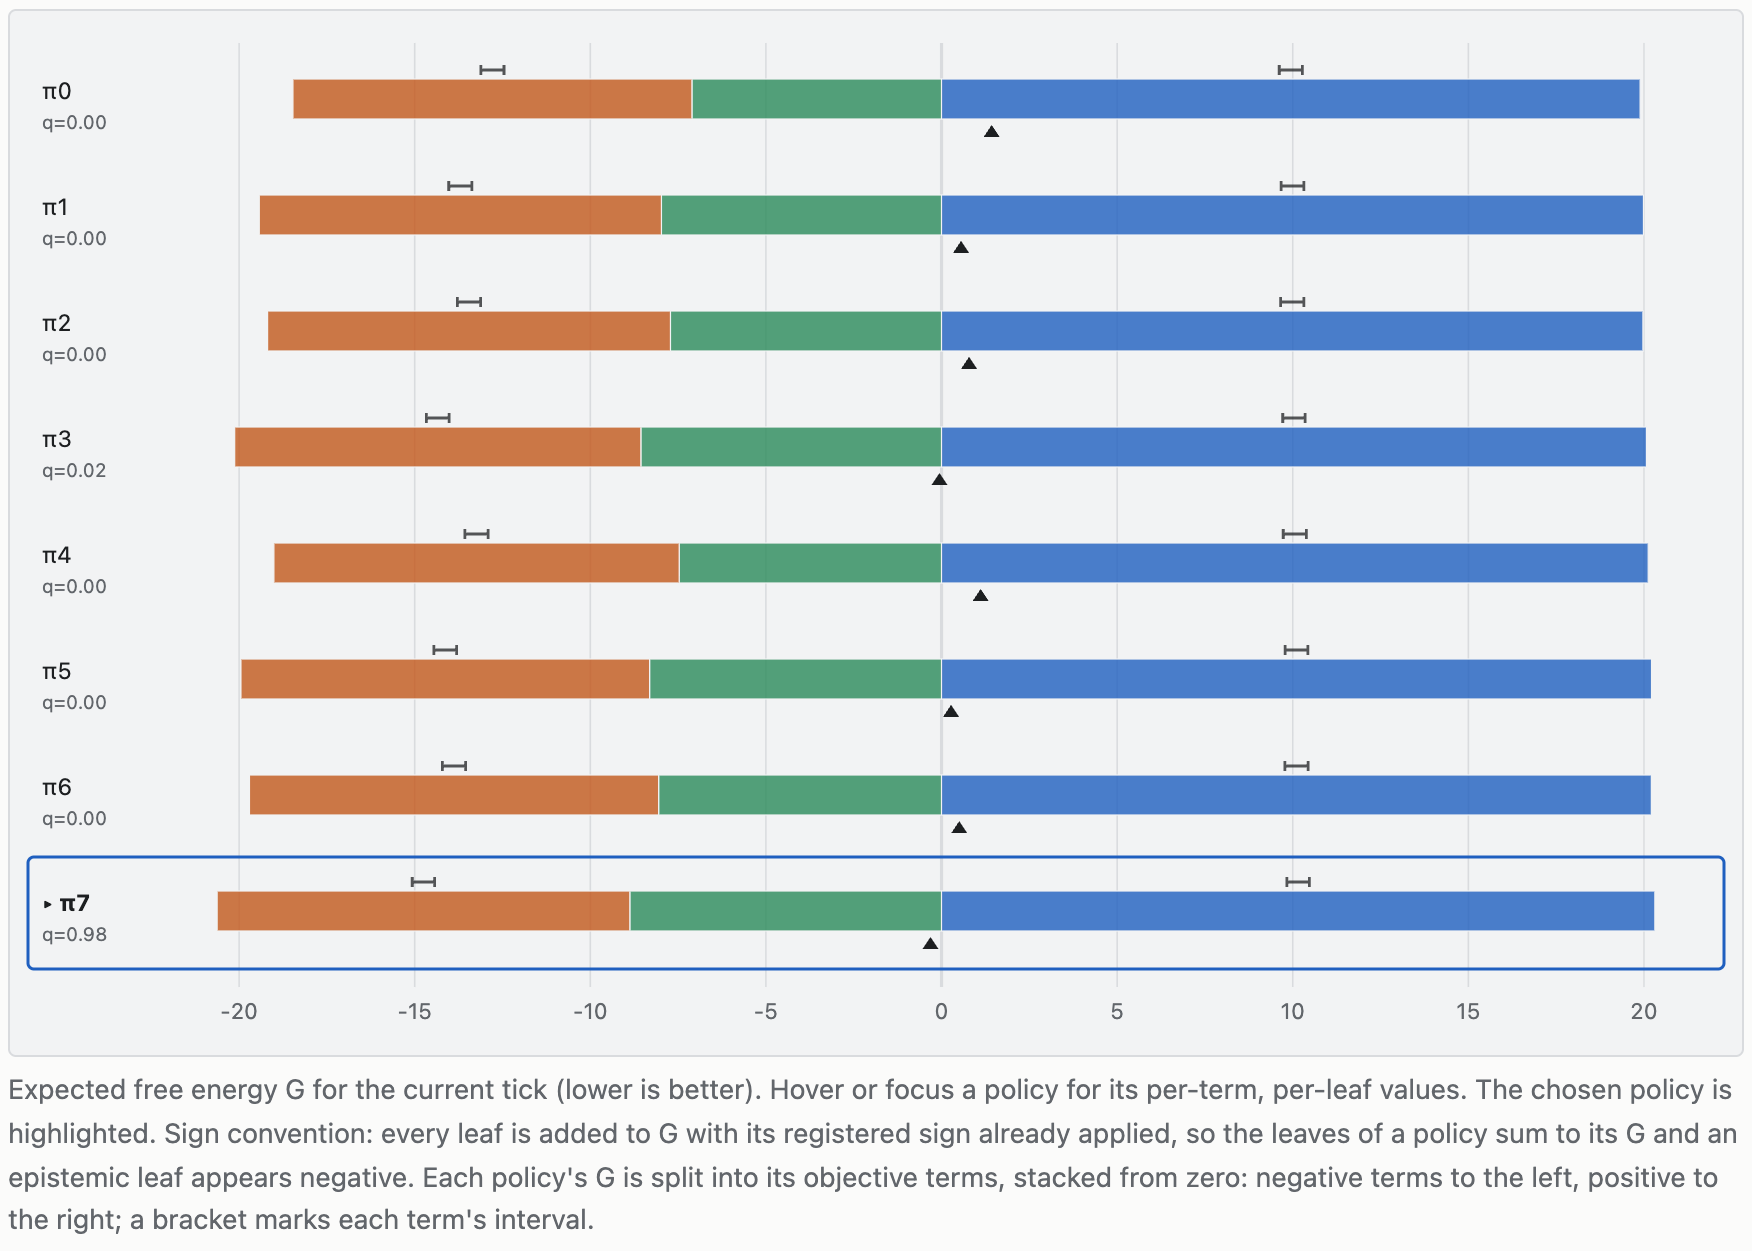
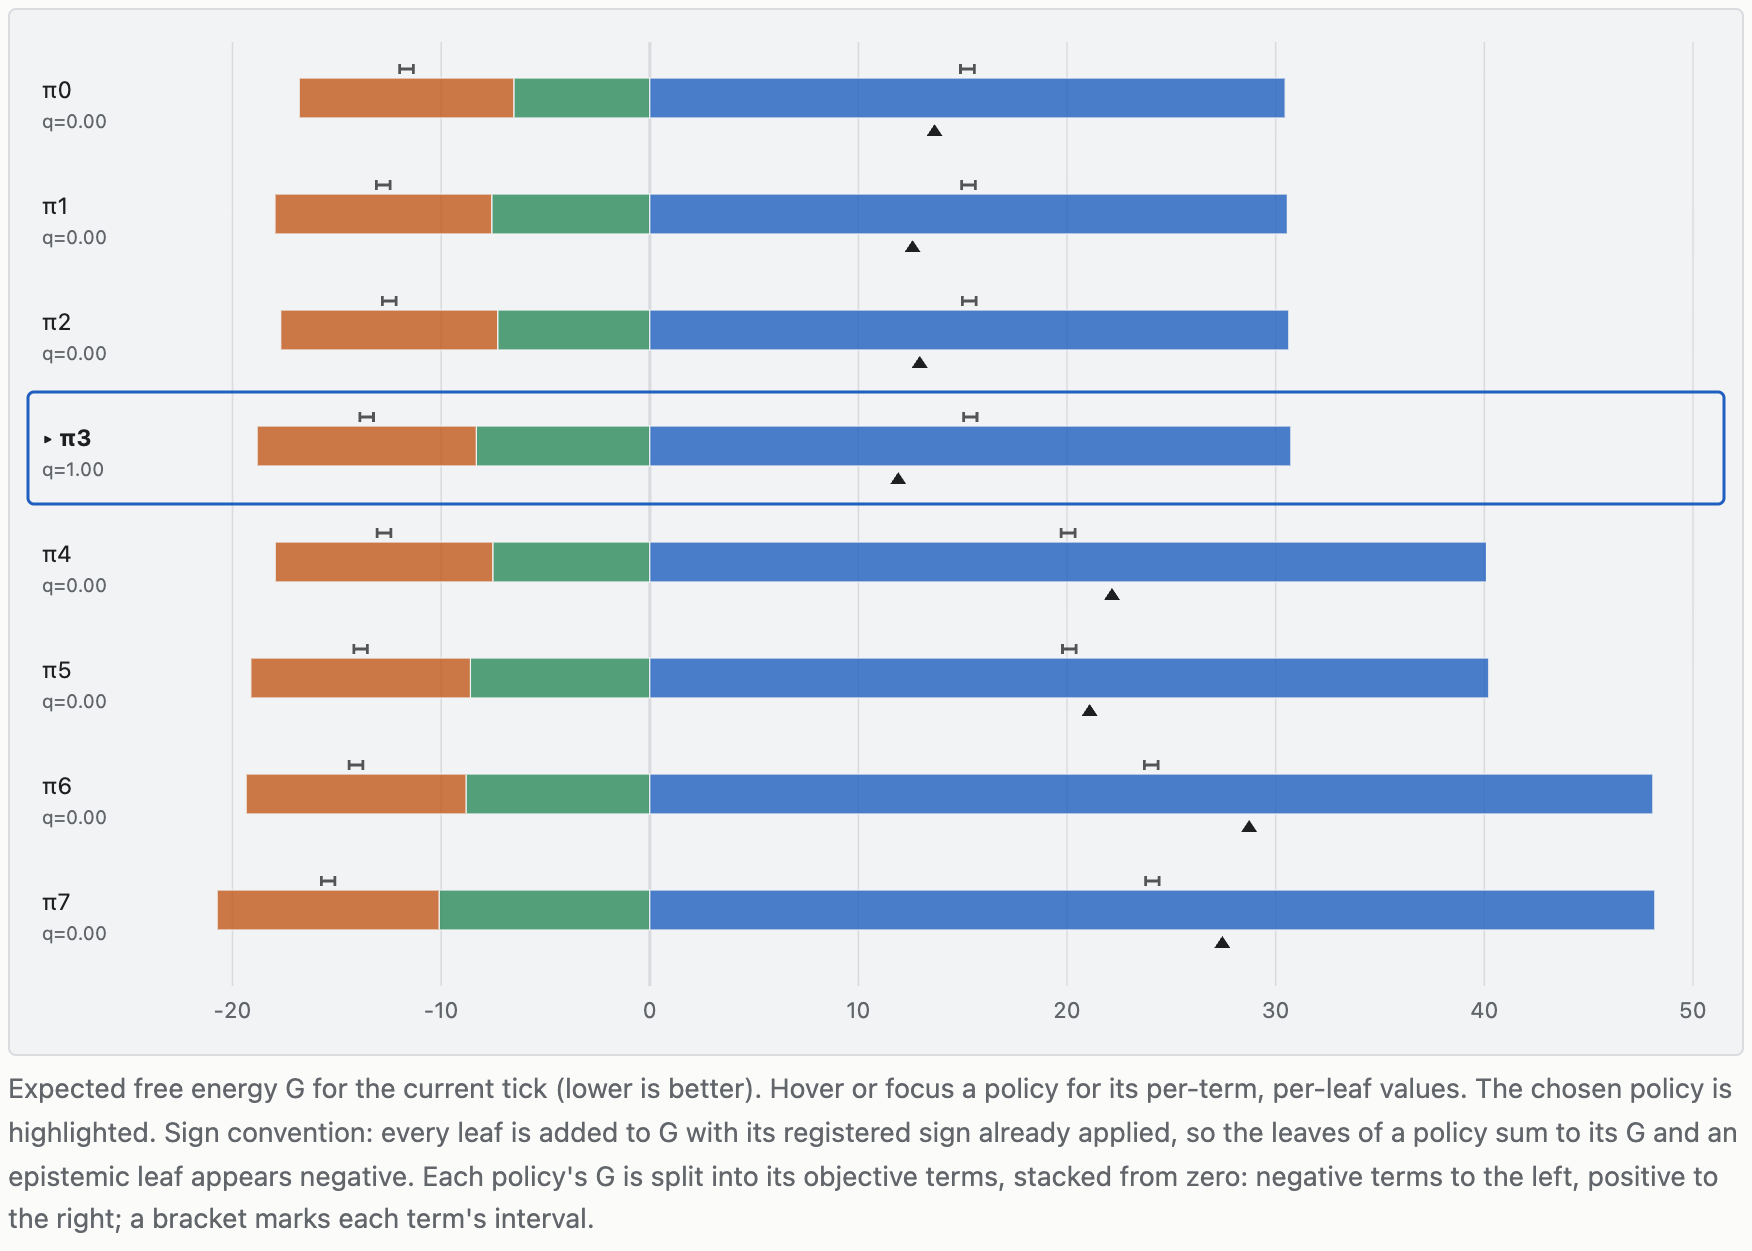
The planner's rollouts draw on the field map, and the quickstart shows the showcase's rover tier
The second map under "Planning in the field" read as a duplicate of the field, so its rollouts
now draw on the field map itself (true path dotted, rollouts from the belief mean) and the
section keeps only the mission plan. The field caption says the belief ellipse is a 2-sigma
contour per mixture component, centred on the component's mean, and why it is elongated: the
camera constrains position across its texture only, and on firm ground across the one diagonal
of the mottle the decoder learned; in the recogniser setting the belief is round.

The quickstart showed a different model (a boat in a current). It now shows the rover tier's
System declaration from the showcase and runs that tier without its camera, coupled to the
mission tier and pinned at one option; the code runs as printed from the examples folder. The
static images are captured at tick 3, where the rollouts are long.

diff --git a/docs/site/index.html b/docs/site/index.html
@@ -51,7 +51,8 @@
       <div class="canvaswrap"><canvas id="field" width="520" height="420" role="img" aria-label="Rover field"></canvas></div>
       <div class="mstate" id="badges" aria-live="off"></div>
       <div class="hud" id="hud"></div>
-      <figcaption>True path (line), belief over position (one ellipse per mixture component, opacity by weight), latest fix (cross). Rocks are coloured by the mission tier's belief about their quality; the dashed ring marks the zone the current option heads for; the triangle marks the ridge, where the position fix is sharpest.</figcaption>
+      <div class="legend" id="fieldlegend"></div>
+      <figcaption>Dotted line: the true path; dot: the rover now; cross: the latest fix. Belief over position: one 2&sigma; ellipse per mixture component, centred on the component's mean, opacity by weight. From the belief mean, the planner's rollouts: the chosen policy in colour, the other top policies in grey, long-exposure steps thick with a dot at their end. Rocks are coloured by the mission tier's belief about their quality; the dashed ring marks the zone the current option heads for; the triangle marks the ridge, where the position fix is sharpest. The ellipse is elongated because the camera constrains position across its texture only (on firm ground, across the one diagonal of the faint mottle the decoder learned); in the recogniser setting the image reports terrain alone and the belief is round.</figcaption>
     </figure>
   </div>
   <figure class="camerafig" id="camerafig">
@@ -89,12 +90,7 @@
 
 <section id="planner">
   <h2>Planning in the field</h2>
-  <p class="lead">The rover's planner is a mixed one: gradient descent over continuous velocity plans from four warm starts per exposure plan, keeping the best, and an enumeration over the discrete exposure choice, rolled out from the current belief. The field shows the trajectories of the highest-weighted plans from the belief mean, with the chosen plan in colour. Below it, the mission plan: the option sequence the slow tier scored best, with durations.</p>
-  <figure class="plannerfig">
-    <div class="canvaswrap"><canvas id="plan" width="520" height="420" role="img" aria-label="Planned trajectories"></canvas></div>
-    <div class="legend" id="planlegend"></div>
-    <figcaption>Lines are rover policy rollouts under the mean dynamics at the most likely terrain, from the belief mean position and velocity. The paths differ mainly in exposure choice. Only the top four policies by posterior weight are shown, plus the chosen one if it is not among them.</figcaption>
-  </figure>
+  <p class="lead">The rover's planner is a mixed one: gradient descent over continuous velocity plans from four warm starts per exposure plan, keeping the best, and an enumeration over the discrete exposure choice, rolled out from the current belief. The map at the top shows the rollouts of the top four policies by posterior weight, plus the chosen one if it is not among them, under the mean dynamics at the most likely terrain, from the belief mean position and velocity; the paths differ mainly in exposure choice. Here, the mission plan: the option sequence the slow tier scored best, with durations.</p>
   <h3>Mission plan</h3>
   <ol id="missionplan" class="chips"></ol>
   <p class="note" id="missionnote"></p>
@@ -112,63 +108,43 @@
   <h2>Install and quickstart</h2>
 <pre><code>uv venv &amp;&amp; uv pip install -e ".[dev]"
 .venv/bin/python -m pytest          # the full suite, about twelve minutes</code></pre>
-  <p class="lead"><strong>Quickstart.</strong> A boat in an unknown current. A hidden current (sticky, two levels) drives a position carried as a Gaussian mixture; one control with three levels (anchor, drift, run); a noisy position sensor; the dock as the preference. Forty lines declare it, one call infers, one call plans.</p>
-<pre><code>import jax
-import jax.numpy as jnp
-
-from hybrid_aif.distributions import (
-    Categorical, ConditionalCategorical, ConditionalGaussian, Gaussian, MixtureGaussian,
-)
-from hybrid_aif.factors import LinearGaussianObservation, LinearGaussianTransition
-from hybrid_aif.system import System, SystemParams
-
-current = jnp.asarray([-1.0, 1.0])            # mode 0 flows left, mode 1 right
-push = jnp.asarray([0.0, 1.1, 2.2])            # anchor, drift, run
-system = System(
-    A_deps=((1,),),                            # the sensor reads x
-    B_deps=((0,), (0,)),                       # the current is sticky; x rides it
-    controlled=(False, True),
+  <p class="lead"><strong>The rover tier, as declared.</strong> This is the declaration behind the map above, from <code>examples/showcase_rover_model.py</code>: five state factors (terrain, the four-dimensional position and velocity, the velocity command, the exposure level and the mission's option), two modalities, and the objective terms the planner scores. The parameters follow in the same file: the terrain-switched dynamics, the fix's noise map over position, the camera's decoder and the option-conditional position target.</p>
+<pre><code>system = System(
+    A_deps=((1, 6), (1, 0)),               # the fix reads x and the exposure node; the image reads x and terrain
+    B_deps=((0,), (0, 2, 3), (), (), ()),  # terrain is sticky; x rides terrain, the command and the exposure
+    controls=(2, 3, 4),
+    action_names=("a_v", "a_sensor", "a_opt"),
+    factor_names=("terrain", "x", "v", "sensor", "u_opt"),
+    modality_names=("fix", "img"),
+    C_deps={"x": ("u_opt",)},              # the position target depends on the mission's option
     policy_len=3,
-    mixture_k=8,
+    mixture_k=3,                           # one position component per terrain mode
     mixture_schedule="mode_aligned",
-    modality_names=("y",),
-    factor_names=("current", "x"),
-)
-params = SystemParams(
-    likelihood={
-        "y": LinearGaussianObservation(H=jnp.eye(1), c=jnp.zeros(1), noise=0.3 * jnp.eye(1)),
-    },
-    transition={
-        "current": ConditionalCategorical(
-            log_table=jnp.log(jnp.asarray([[0.9975, 0.0025], [0.0025, 0.9975]]))[:, :, None],
-            parent_ndims=2,
-        ),
-        "x": LinearGaussianTransition(
-            F=jnp.broadcast_to(jnp.asarray([0.25, 0.85, 1.0])[None, :, None, None], (2, 3, 1, 1)),
-            innovations=ConditionalGaussian(
-                loc=(current[:, None] * push[None, :])[..., None],
-                chol=jnp.full((2, 3, 1, 1), 0.2),
-                parent_ndims=2,
-            ),
-        ),
-    },
-    initial_state_prior={
-        "current": Categorical(logits=jnp.zeros(2)),
-        "x": MixtureGaussian(
-            log_weights=jnp.log(jnp.asarray([0.5, 0.5])),
-            means=jnp.zeros((2, 1)),
-            chols=0.5 * jnp.ones((2, 1, 1)),
-        ),
-    },
-    state_targets={"x": Gaussian(loc=jnp.zeros(1), chol=0.55 * jnp.eye(1))},
-)
+    planning_belief="prior",
+    epistemic=("obs:fix", "obs:img"),      # the modalities whose information gain is scored
+    terms=("uncertainty:x",),
+    recognition=(Recognition("terrain", ("obs:img",)),),   # the encoder setting only
+)</code></pre>
+  <p class="lead"><strong>Running it.</strong> The camera's decoder is a trained network (the showcase trains and caches it on its first run), so the quickest run leaves the camera out: the same rover tier with the fix as its only modality, coupled to the mission tier through the shared option and pinned at one option, infers on a fix and plans in a fraction of a second once compiled. From the <code>examples</code> folder:</p>
+<pre><code>import dataclasses
+import jax.numpy as jnp
+import showcase_mission as mm, showcase_rover_model as rm
+from hybrid_aif.composition.merge import ActionControl, merge, subsystem
+from hybrid_aif.planning import make_mixed_planner
 
-beliefs, _ = system.infer_states(params, {"y": jnp.asarray([0.4])})
-action, _, tree = system.act(jax.random.PRNGKey(0), params, beliefs, selection="deterministic")
-print(int(action["a_x"]))                       # 1: drift, to read the current
+ms, mp = mm.mission("steep", epistemic=True)
+rs, rp = rm.rover(None, camera=False)                       # the rover tier, fix only
+cs, cp = merge({"mission": ms, "rover": rs}, {"mission": mp, "rover": rp},
+               [ActionControl("mission.u_option", "rover.u_opt")])   # the two tiers share the option
+view, vp = subsystem(cs, cp, "rover", partner_priors={"mission.u_option": 0})   # pinned at visit_1
+view = dataclasses.replace(view, planner="mixed")
+faces = view.compiled()
+beliefs, _ = faces.infer_states(vp, {"rover.fix": jnp.asarray([0.3, -0.1])}, previous={"rover.a_sensor": 0})
+q_pi, tree = faces.infer_policies(vp, beliefs, planner=make_mixed_planner(steps=40, starts=4))
 for term, leaves in tree.items():
     for leaf, interval in leaves.items():
-        print(term, leaf, interval.lower, interval.upper)   # one bracket per policy</code></pre>
+        print(term, leaf, interval.lower, interval.upper)   # one bracket per exposure plan</code></pre>
+  <p class="lead">The whole showcase, both tiers over every setting on this page, is <code>python examples/showcase_rover.py --out OUT_DIR</code>; <code>docs/site/README.md</code> says how the page's data is rebuilt from it.</p>
 </section>
 
 <section id="cite">

diff --git a/docs/site/app.js b/docs/site/app.js
@@ -257,9 +257,10 @@
     var c = $("field"), m = setupCanvas(c), g = m.g, r = run().ticks, t = r[S.t];
     drawGrid(m); drawZones(m, t);
     t.belief.components.forEach(function (cm) { ellipse(m, cm, css("--c1"), cm.w); });
-    g.strokeStyle = css("--fg"); g.lineWidth = 2; g.beginPath();
+    g.save(); g.setLineDash([2, 5]); g.lineCap = "round"; g.globalAlpha = 0.7; g.strokeStyle = css("--fg"); g.lineWidth = 1.5; g.beginPath();
     for (var i = 0; i <= S.t; i++) { var p = r[i].true_x; i ? g.lineTo(m.X(p[0]), m.Y(p[1])) : g.moveTo(m.X(p[0]), m.Y(p[1])); }
-    g.stroke();
+    g.stroke(); g.restore();
+    drawPlans(m, t);
     if (t.fix) {
       var fx = m.X(t.fix[0]), fy = m.Y(t.fix[1]);
       g.strokeStyle = css("--c2"); g.lineWidth = 2; g.beginPath();
@@ -274,6 +275,31 @@
       t.belief.components.length + "</b></span>" + (v ? "<span>belief velocity: <b>" + v[0].toFixed(2) + ", " + v[1].toFixed(2) + "</b></span>" : "") +
       (t.free_energy != null ? "<span>free energy: <b>" + t.free_energy.toFixed(2) + "</b></span>" : "");
     drawCamera(t);
+  }
+  // the planner's rollouts on the field: the top policies by weight from the belief mean, the chosen one in colour
+  function drawPlans(m, t) {
+    var g = m.g, dyn = B.meta.dynamics, terr = argmax(t.belief.terrain), v0 = t.belief.velocity || [0, 0];
+    var longIdx = Math.max(0, names("sensor").findIndex(function (s) { return /long/i.test(s); }));
+    function path(p, color, wLong, wShort, alpha) {
+      var x = p.start[0], y = p.start[1], vx = v0[0], vy = v0[1];
+      g.globalAlpha = alpha; g.strokeStyle = color; g.fillStyle = color; g.lineCap = "round";
+      p.v_plan.forEach(function (a, k) {
+        var lg = p.sensor_plan[k] === longIdx, lv = p.sensor_plan[k] ? 1 : 0, drift = dyn.drift[terr], x0 = x, y0 = y;
+        x += dyn.dt * vx; y += dyn.dt * vy;
+        vx = dyn.keep[lv] * vx + dyn.gain[lv] * a[0] + drift[0]; vy = dyn.keep[lv] * vy + dyn.gain[lv] * a[1] + drift[1];
+        g.lineWidth = lg ? wLong : wShort; g.beginPath(); g.moveTo(m.X(x0), m.Y(y0)); g.lineTo(m.X(x), m.Y(y)); g.stroke();
+        if (lg) { g.beginPath(); g.arc(m.X(x), m.Y(y), wLong * 0.85 + 1, 0, 2 * Math.PI); g.fill(); }
+      });
+      g.globalAlpha = 1;
+    }
+    var order = t.policies.map(function (p, i) { return i; }).sort(function (a, b) { return t.policies[b].q_pi - t.policies[a].q_pi; }).slice(0, 4);
+    if (order.indexOf(t.chosen) < 0) order.push(t.chosen);
+    order.forEach(function (i) { if (i !== t.chosen) path(t.policies[i], css("--muted"), 2.8, 1, 0.6); });
+    var ch = t.policies[t.chosen]; path(ch, css("--accent"), 5, 1.6, 1);
+    g.beginPath(); g.arc(m.X(ch.start[0]), m.Y(ch.start[1]), 3.5, 0, 2 * Math.PI); g.fillStyle = css("--panel"); g.fill(); g.strokeStyle = css("--accent"); g.lineWidth = 1.5; g.stroke();
+    var lw = function (c, w, dot, dash) { return "<svg class='lsw' viewBox='0 0 28 10'><line x1='2' x2='" + (dot ? 21 : 26) + "' y1='5' y2='5' stroke='" + c + "' stroke-width='" + w + "' stroke-linecap='round'" + (dash ? " stroke-dasharray='2 4'" : "") + "/>" + (dot ? "<circle cx='23' cy='5' r='3.5' fill='" + c + "'/>" : "") + "</svg>"; };
+    $("fieldlegend").innerHTML = "<span>" + lw(css("--fg"), 1.5, false, true) + "true path</span><span><i style='background:" + css("--accent") + "'></i>chosen policy</span><span><i style='background:" + css("--muted") + "'></i>other top policies</span><span>" +
+      lw(css("--fg"), 4, true) + esc(nm("sensor", longIdx)) + " step: thick, dot at its end</span><span>" + lw(css("--fg"), 1.2, false) + "short exposure step: thin</span>";
   }
   function imageRows(x) {
     // an image as rows of 0..255: either rows already, or a base64 string of the pixel bytes
@@ -598,33 +624,8 @@
     if (mode === "terms" && anyApprox()) lg.innerHTML += "<span class='approx'>≈ approximate leaves (hover)</span>";
   }
 
-  // ---- planner ----
-  function drawPlanner() {
-    var c = $("plan"), m = setupCanvas(c), g = m.g, t = tick();
-    drawGrid(m); drawZones(m, t);
-    var dyn = B.meta.dynamics, terr = argmax(t.belief.terrain), v0 = t.belief.velocity || [0, 0];
-    var longIdx = Math.max(0, names("sensor").findIndex(function (s) { return /long/i.test(s); }));
-    function path(p, color, wLong, wShort, alpha) {
-      var x = p.start[0], y = p.start[1], vx = v0[0], vy = v0[1];
-      g.globalAlpha = alpha; g.strokeStyle = color; g.fillStyle = color; g.lineCap = "round";
-      p.v_plan.forEach(function (a, k) {
-        var lg = p.sensor_plan[k] === longIdx, lv = p.sensor_plan[k] ? 1 : 0, drift = dyn.drift[terr], x0 = x, y0 = y;
-        x += dyn.dt * vx; y += dyn.dt * vy;
-        vx = dyn.keep[lv] * vx + dyn.gain[lv] * a[0] + drift[0]; vy = dyn.keep[lv] * vy + dyn.gain[lv] * a[1] + drift[1];
-        g.lineWidth = lg ? wLong : wShort; g.beginPath(); g.moveTo(m.X(x0), m.Y(y0)); g.lineTo(m.X(x), m.Y(y)); g.stroke();
-        if (lg) { g.beginPath(); g.arc(m.X(x), m.Y(y), wLong * 0.85 + 1, 0, 2 * Math.PI); g.fill(); }
-      });
-      g.globalAlpha = 1;
-    }
-    var order = t.policies.map(function (p, i) { return i; }).sort(function (a, b) { return t.policies[b].q_pi - t.policies[a].q_pi; }).slice(0, 4);
-    if (order.indexOf(t.chosen) < 0) order.push(t.chosen);
-    order.forEach(function (i) { if (i !== t.chosen) path(t.policies[i], css("--muted"), 2.8, 1, 0.6); });
-    var ch = t.policies[t.chosen]; path(ch, css("--accent"), 5, 1.6, 1);
-    g.beginPath(); g.arc(m.X(ch.start[0]), m.Y(ch.start[1]), 6, 0, 2 * Math.PI); g.fillStyle = css("--fg"); g.fill();
-    var lw = function (c, w, dot) { return "<svg class='lsw' viewBox='0 0 28 10'><line x1='2' x2='" + (dot ? 21 : 26) + "' y1='5' y2='5' stroke='" + c + "' stroke-width='" + w + "' stroke-linecap='round'/>" + (dot ? "<circle cx='23' cy='5' r='3.5' fill='" + c + "'/>" : "") + "</svg>"; };
-    $("planlegend").innerHTML = "<span>" + lw(css("--fg"), 4, true) + esc(nm("sensor", longIdx)) + " step: thick, dot at its end</span><span>" +
-      lw(css("--fg"), 1.2, false) + "short exposure step: thin</span><span><i style='background:" + css("--accent") + "'></i>chosen policy</span><span><i style='background:" + css("--muted") + "'></i>other top policies</span>";
-    // mission plan
+  // ---- mission plan ----
+  function drawMissionPlan() {
     var d = decTick(), ul = $("missionplan"); ul.innerHTML = "";
     if (!d) { $("missionnote").textContent = ""; return; }
     var sp = d.slow_policies[d.slow_chosen];
@@ -673,7 +674,7 @@
   // ---- state / wiring ----
   function render() {
     $("tick").value = S.t; $("tickout").textContent = S.t;
-    drawField(); updateGraph(); drawTimeline(); drawObjective(); drawPlanner();
+    drawField(); updateGraph(); drawTimeline(); drawObjective(); drawMissionPlan();
   }
   function setPlaying(on) {
     S.playing = on; $("play").textContent = on ? "Pause" : "Play"; $("play").setAttribute("aria-label", on ? "Pause" : "Play");

diff --git a/docs/site/style.css b/docs/site/style.css
@@ -45,7 +45,6 @@ svg,canvas{width:100%;height:auto;display:block}
 .graphfig svg{border:1px solid var(--line);border-radius:4px;background:var(--panel)}
 .hud{font:.85rem var(--mono);margin-top:.4rem;display:flex;flex-wrap:wrap;gap:.2rem 1rem}
 .hud b{font-weight:600}
-.plannerfig{max-width:560px}
 .chartbox{border:1px solid var(--line);border-radius:4px;background:var(--panel);padding:.5rem}
 .row{cursor:default}
 .row:hover .rowbg,.row:focus .rowbg{fill:var(--line);opacity:.5}
